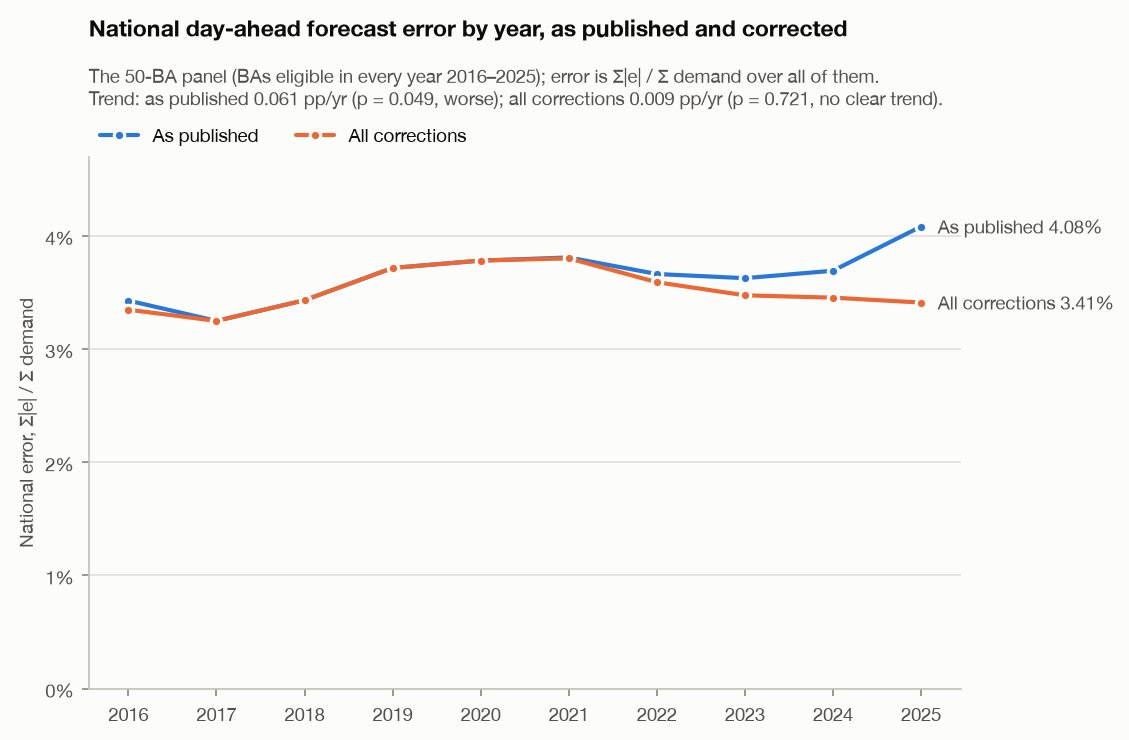
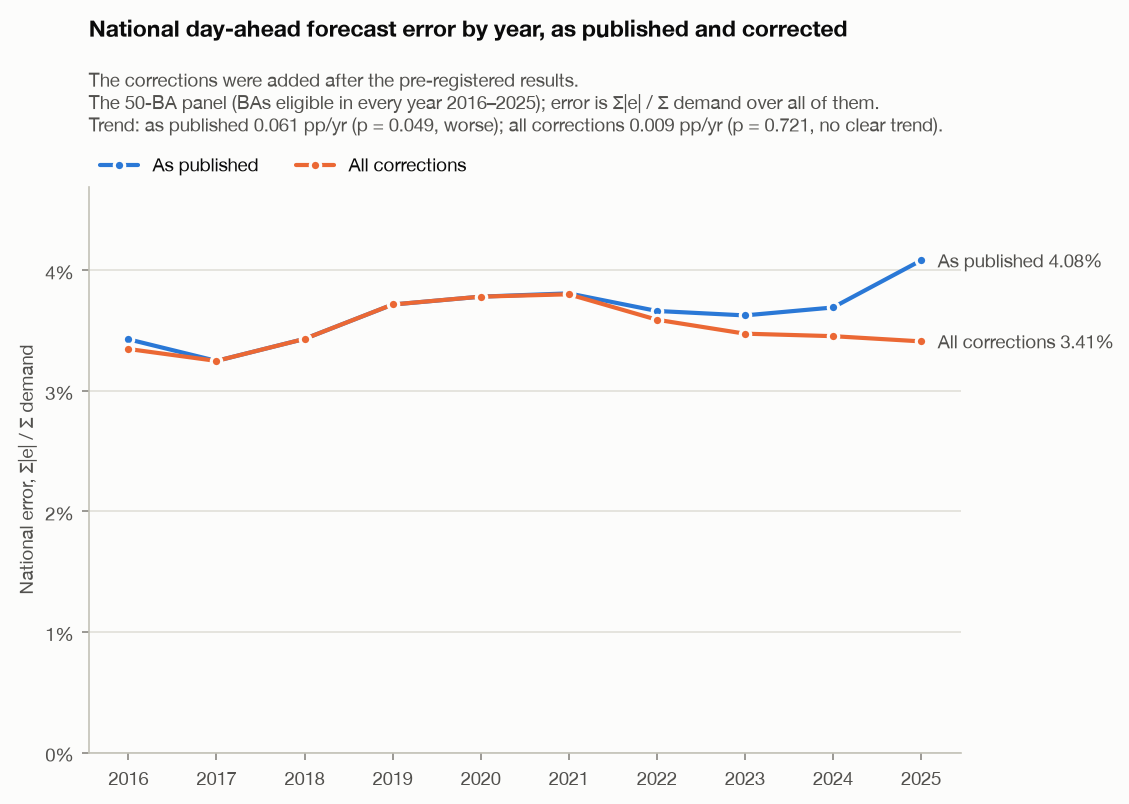
Revise README summary and limitations; label corrections in the figure

diff --git a/src/grid_audit/audit.py b/src/grid_audit/audit.py
@@ -1182,7 +1182,8 @@ def render_audit(r: Results, hourly: pd.DataFrame) -> str:
 
 def national_lines(robustness: dict[str, dict[str, object]]) -> tuple[pd.DataFrame, str]:
     """The headline figure's data and caption: the panel's national figure per year as published
-    (the main run) and with all corrections, and each line's trend as in the robustness table."""
+    (the main run) and with all corrections, and each line's trend as in the robustness table.
+    The caption opens by saying that the corrections came after the pre-registered results."""
     rows = {"As published": robustness["Main"], "All corrections": robustness["All corrections"]}
     data = pd.DataFrame({label: row["national_by_year"] for label, row in rows.items()})
     trends = "; ".join(
@@ -1194,6 +1195,7 @@ def national_lines(robustness: dict[str, dict[str, object]]) -> tuple[pd.DataFra
     if len(panels) != 1:
         raise RuntimeError(f"the two runs' panels differ in size: {sorted(panels)}")
     caption = (
+        "The corrections were added after the pre-registered results.\n"
         f"The {panels.pop()}-BA panel (BAs eligible in every year {YEARS[0]}–{YEARS[-1]}); "
         f"error is Σ|e| / Σ demand over all of them.\nTrend: {trends}."
     )

diff --git a/src/grid_audit/figures.py b/src/grid_audit/figures.py
@@ -172,7 +172,7 @@ def national_by_year(lines: pd.DataFrame, caption: str) -> None:
     if len(lines.columns) > len(colors):
         raise ValueError(f"at most {len(colors)} lines, got {len(lines.columns)}")
     with plt.rc_context(STYLE):
-        fig, ax = plt.subplots(figsize=(7.5, 4.6))
+        fig, ax = plt.subplots(figsize=(7.5, 4.9))
         for name, color in zip(lines.columns, colors, strict=False):
             ax.plot(
                 lines.index,
@@ -205,7 +205,7 @@ def national_by_year(lines: pd.DataFrame, caption: str) -> None:
         ax.set_ylabel("National error, Σ|e| / Σ demand")
         # Top down: title, caption, legend, then the plot.
         title = "National day-ahead forecast error by year, as published and corrected"
-        ax.set_title(title, pad=58)
+        ax.set_title(title, pad=72)
         ax.text(0, 1.09, caption, transform=ax.transAxes, color=INK_2, va="bottom")
         ax.legend(loc="lower left", bbox_to_anchor=(0, 1.0), ncol=2, borderaxespad=0.2)
         save(fig, lines, "national_by_year")

diff --git a/tests/test_audit.py b/tests/test_audit.py
@@ -379,6 +379,7 @@ def test_national_lines() -> None:
     assert list(data.columns) == ["As published", "All corrections"]
     assert data.loc[2017].tolist() == [4.0, 3.0]
     assert caption == (
+        "The corrections were added after the pre-registered results.\n"
         "The 50-BA panel (BAs eligible in every year 2016–2025); error is Σ|e| / Σ demand over "
         "all of them.\nTrend: as published 0.061 pp/yr (p = 0.049, worse); all corrections "
         "0.009 pp/yr (p = 0.721, no clear trend)."

diff --git a/README.md b/README.md
@@ -1,12 +1,13 @@
 # Grid forecast audit: day-ahead demand forecasts in EIA-930, 2016–2025
 
-Are US grid operators' day-ahead demand forecasts getting worse? In EIA-930's data they appear
-to, just barely. Three problems in EIA's published data account for that: the California ISO's
-(CISO) demand runs an hour late, Southwest Power Pool's (SWPP) forecast stops matching SPP's own
-from May 2025, and CISO's demand counts battery charging that its forecast leaves out. Once they
-are corrected, there is no sign that forecasts are getting worse. EIA-930 is the standard public
-source for hourly US grid data, so errors in it reach everyone who uses it. The corrections were
-added after the pre-registered results.
+Are US grid operators' day-ahead demand forecasts getting worse? There's no robust sign of it. In
+EIA-930, the standard public source of hourly US grid data, national error rises slightly, but
+the median across regions shows no clear trend and most pre-registered checks don't confirm the
+rise. Three problems in EIA-930 explain it: the California ISO's demand runs an hour late for
+about four of the ten years, it includes battery charging that its forecast leaves out, and the
+Southwest Power Pool forecast stops matching the operator's own in May 2025. With them corrected,
+in checks added after the pre-registered results, the trend is flat. Anyone using EIA-930
+inherits these problems.
 
 ![National day-ahead forecast error by year, 2016–2025, as published and with all corrections](results/figures/national_by_year.png)
 
@@ -20,37 +21,43 @@ in every year 2016–2025, as published in EIA-930 and with all three correction
 mean absolute percentage error against actual demand. *National*: total absolute error over
 total demand, either on the **50-BA panel** (BAs eligible in every year, used for trends) or
 over **all 53 BAs** eligible in 2025. *Naive forecast*: demand 24 hours earlier; *skill* below
-0 means a BA's forecast loses to it. *pp/yr*: percentage points per year.
+0 means a BA's forecast loses to it. *pp/yr*: percentage points per year. *CISO*, *SWPP*:
+EIA's codes for the California ISO and Southwest Power Pool; *CAISO* and *SPP* mean the
+operators' own data.
 
 - **As published, the national trend is weak and fragile; corrected, it is flat.** On the
-  50-BA panel, national error rises 0.061 pp/yr (Mann–Kendall p = 0.049, "worse"), and 2025 is
-  the worst of the ten years on both the panel median and the panel's national figure. The
-  median across BAs shows no clear trend (0.010 pp/yr, p = 0.474), and three of the five
+  50-BA panel, national error rises 0.061 pp/yr (Mann–Kendall p = 0.049, "worse"). The median
+  across the panel's BAs shows no clear trend (0.010 pp/yr, p = 0.474), and three of the five
   pre-registered robustness variants turn the national verdict to no clear trend (p = 0.074 to
   0.107). With all three corrections, the 50-BA national trend is 0.009 pp/yr (p = 0.721), and
-  2025 ranks 6th on the panel median and 8th on the national figure among the ten years.
-  Individual BAs move both ways: 10 worse and 10 better with all corrections (11 and 10 as
-  published), against about 2.6 of 52 expected by chance.
-- **CISO's demand runs an hour late** (the California ISO's area): from the start of EIA-930's
-  data (July 2015) to 2016-09-12, and from 2022-06-14 to 2025-12-02 except 2022-06-15 (Pacific
-  days). EIA's CISO forecast equals CAISO's own day-ahead forecast in every checked month, while
-  EIA's CISO demand matches CAISO's actual load an hour earlier: on 333 of 334 days from
-  2025-01-01 to 2025-12-02 (mean gap 0.62% moved, 3.25% as published) and on 514 of 515 checked
-  days inside the spans, while 454 of 458 checked days outside them are on time. The correction
-  starts on 2016-01-01 because the audit years do; CAISO's data were checked from January 2016.
-- **SWPP's forecast stops matching SPP's own from 2025-05-07.** Before that date, EIA's SWPP
-  forecast was within 2% of SPP's own day-ahead forecast on 122 of 125 days; from 7 May to 31
-  December it was more than 2% away on 219 of 238 days, at 1.11–1.14 times SPP's by monthly
-  median, while EIA's SWPP demand kept matching SPP's actual load (monthly medians
+  2025 falls from the worst of the ten years to 6th-worst on the panel median and 8th-worst on
+  the national figure. Individual BAs move both ways. Each of the 52 BAs with at least 8
+  eligible years was tested on its own yearly MAPE: 11 are worse (MAPE rising, Mann–Kendall
+  p < 0.05) and 10 better (falling, p < 0.05) as published, and 10 and 10 with all corrections.
+  By chance alone, about 2.6 of the 52 would reach p < 0.05.
+- **CISO's demand runs an hour late for about four of the ten years:** from at least
+  2016-01-01, where the check against CAISO's data begins, to 2016-09-12, and from 2022-06-14 to
+  2025-12-02 except 2022-06-15 (Pacific days); earlier months were not checked. EIA's CISO
+  forecast equals CAISO's own day-ahead forecast in every checked month, while EIA's CISO demand
+  matches CAISO's actual load an hour earlier: on 333 of 334 days from 2025-01-01 to 2025-12-02
+  (mean gap 0.62% moved, 3.25% as published) and on 514 of 515 checked days inside the spans,
+  while 454 of 458 checked days outside them are on time. The correction starts on 2016-01-01
+  because the audit years do.
+- **EIA-930's SWPP forecast stops matching SPP's own from 2025-05-07.** Before that date,
+  EIA's SWPP forecast was within 2% of SPP's own day-ahead forecast on 122 of 125 days; from
+  7 May to 31 December it was more than 2% away on 219 of 238 days, at 1.11–1.14 times SPP's by
+  monthly median, while EIA's SWPP demand kept matching SPP's actual load (monthly medians
   0.998–1.004). On the same 2025 hours, each against its own source's load, SPP's own forecast
   scores MAPE 1.71% (skill 0.58); the series in EIA-930 scores 7.79%, with a bias of 6.41%
-  (over-forecast). Why it changed is not
-  visible in the files.
+  (over-forecast). Why it changed is not visible in the files.
 - **CISO's demand counts battery charging; its forecast does not.** CISO reports its batteries
   under EIA-930's "Other Fuel Sources" (its "Battery Storage" column is blank): against CAISO's
   own 2025 battery output, that column matches at correlation 0.999 once moved back an hour.
-  CAISO removed battery charging from its forecast system's inputs in June 2021, and EIA's
-  instructions say charging belongs in net generation, not demand. In 2025 CAISO's forecast gap
+  CAISO removed battery charging from its forecast system's inputs in June 2021
+  ([CAISO, 22 June 2021, slide 44](https://www.caiso.com/documents/presentation-marketperformance-planningforum-jun222021.pdf)),
+  and EIA's instructions say charging belongs in net generation, not demand
+  ([EIA-930 instructions](https://www.eia.gov/survey/form/eia_930/instructions.pdf)); both are
+  quoted in [results/ciso_check.md](results/ciso_check.md). In 2025 CAISO's forecast gap
   follows charging almost MW for MW (b = 0.90, R² = 0.91); against actual load less charging,
   CAISO's bias goes from −6.9% to −0.6% and its MAPE from 7.31% to 2.45%. With all three
   corrections, CISO's 2025 MAPE in the audit falls from 8.28% to 2.35% and its skill rises from
@@ -80,8 +87,10 @@ Full results: [results/audit.md](results/audit.md). Operator checks:
   least 50% of its hours are usable: 53 BAs in 2025, a 50-BA panel eligible in every year (all 10
   largest BAs included), and 49 BAs for the demand-growth question. 4,582,331 hours are scored.
 - **Metrics,** with error e = forecast − demand: MAPE (primary), WAPE, bias, and skill =
-  1 − MAPE / naive MAPE on the same hours. Summaries are the median across BAs plus one national
-  figure, Σ|e| / Σ demand, so a few broken series cannot drive them.
+  1 − MAPE / naive MAPE on the same hours. Summaries are the median across BAs and one national
+  figure, Σ|e| / Σ demand. The median resists a few broken series; the national figure does not,
+  because it weights BAs by demand, and CISO's and SWPP's broken series moved it: on the 50-BA
+  panel its trend is 0.061 pp/yr as published and 0.009 pp/yr with all corrections.
 - **Questions:** Q1, accuracy in 2025; Q2, the trend (Theil–Sen slope, two-sided Mann–Kendall
   test); Q3, when forecasts miss (season and hour, holidays, 19 extreme-weather events chosen by
   a stated rule, extreme-demand days); Q4, demand growth against change in error; Q5, who loses
@@ -127,24 +136,26 @@ git diff edd06df -- docs/step3_audit_plan.md src/grid_audit/quality.py \
   src/grid_audit/quality_rules.py src/grid_audit/truth.py src/grid_audit/data_quality.py
 ```
 
+It should print nothing.
+
 Later changes, by commit date:
 
 | Committed | Commit | Change |
 | :-- | :-- | :-- |
-| 2026-10-28 | `a61ece2` | The audit, computed as planned. Choices where the plan is silent are listed under Notes in `results/audit.md`; Figure 4's y-axis range was a display choice made after the first draw. |
+| 2026-10-28 | `a61ece2` | The audit, computed as planned. Choices where the plan is silent are listed under Notes in `results/audit.md`. |
 | 2026-10-30 | `b0412db` | The national panel trend shown for every robustness variant, because the main run's "worse" verdict rests on p = 0.049, with the ranks of 2024 and 2025. Q3 marks Winter Storm Uri and the hurricanes, when outages cut demand. Operator data for CISO and SWPP, the plan's Q5 step 2. |
 | 2026-10-30 | `b59cc86` | CISO's late demand dated back to 2016 against CAISO's data; the "Verified corrections" variant; every event with documented load shedding marked, with sources in [data/load_shedding.csv](data/load_shedding.csv). |
 | 2026-11-01 | `09e45e6` | CISO's "Other Fuel Sources" verified as its batteries; the "CISO without charging" and "All corrections" variants; the exploratory battery check. |
 
 None of these changed a rule, a threshold, the event list or any number in the main run; they
 added variants, checks and caveats. The headline figure was added with this README and draws on
-two of the robustness runs.
+the main run and the All corrections variant.
 
 ### Operator cross-checks
 
 The plan's Q5 step 2 compares the largest BAs that lose to the naive forecast with the
-operator's own published load and day-ahead forecast. That meant CISO (2023–2025) and SWPP
-(2025); FPL (2016–2017) has no public hourly forecast archive that we know of.
+operator's own published load and day-ahead forecast. That meant CISO (2023–2025), SWPP (2025)
+and FPL (2016–2017); for FPL, no public archive of hourly forecasts was found.
 
 - **CAISO OASIS:** CAISO's day-ahead load forecast and actual load, for 2025 and January–June
   2026, plus sample months from 2016 to 2024 to date CISO's late demand (64 files).
@@ -194,11 +205,14 @@ variants' counts, is under Robustness in [results/audit.md](results/audit.md).
 
 ## Limitations
 
-- **The headline rests on variants added after the results.** The three corrections were added
-  after the pre-registered results had been computed and reviewed, and the main run stays as
-  published. Each correction was verified by comparing EIA-930 with the operator's own series,
-  not by its effect on forecast error, though Q5's forecast-shift check first pointed at CISO's
-  timing.
+- **The corrections were added after the results.** The three corrections were added after the
+  pre-registered results had been computed and reviewed, and the main run stays as published.
+  Each correction was verified by comparing EIA-930 with the operator's own series, not by its
+  effect on forecast error, though Q5's forecast-shift check first pointed at CISO's timing.
+- **The search for problems was one-sided.** Only BAs whose forecasts looked bad were checked
+  against operator data: the largest BAs that lose to the naive forecast. So the problems found
+  tend to lower errors when corrected, mostly in recent years, which tilts the corrected trend
+  down. A problem that made a forecast look better than it is would not have been found.
 - **Exploratory:** the check of whether any other BA's forecast gap tracks battery charging
   ([results/battery_check.md](results/battery_check.md)) is not in the plan. None does.
 - **Open: SWPP's change on 7 May 2025.** Its cause is unknown; what changed in the forecast
